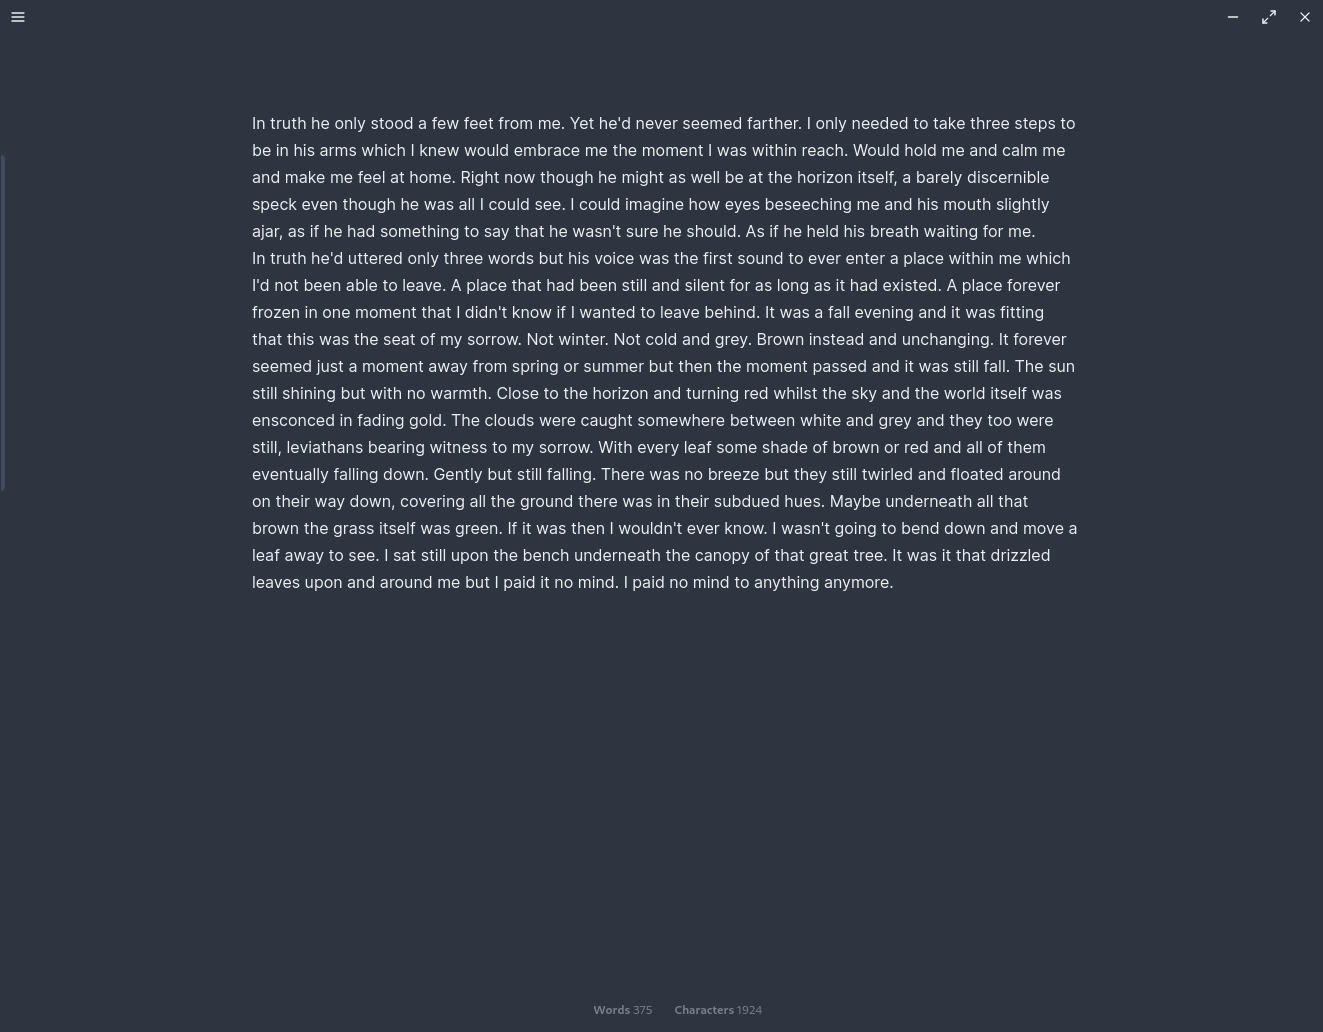
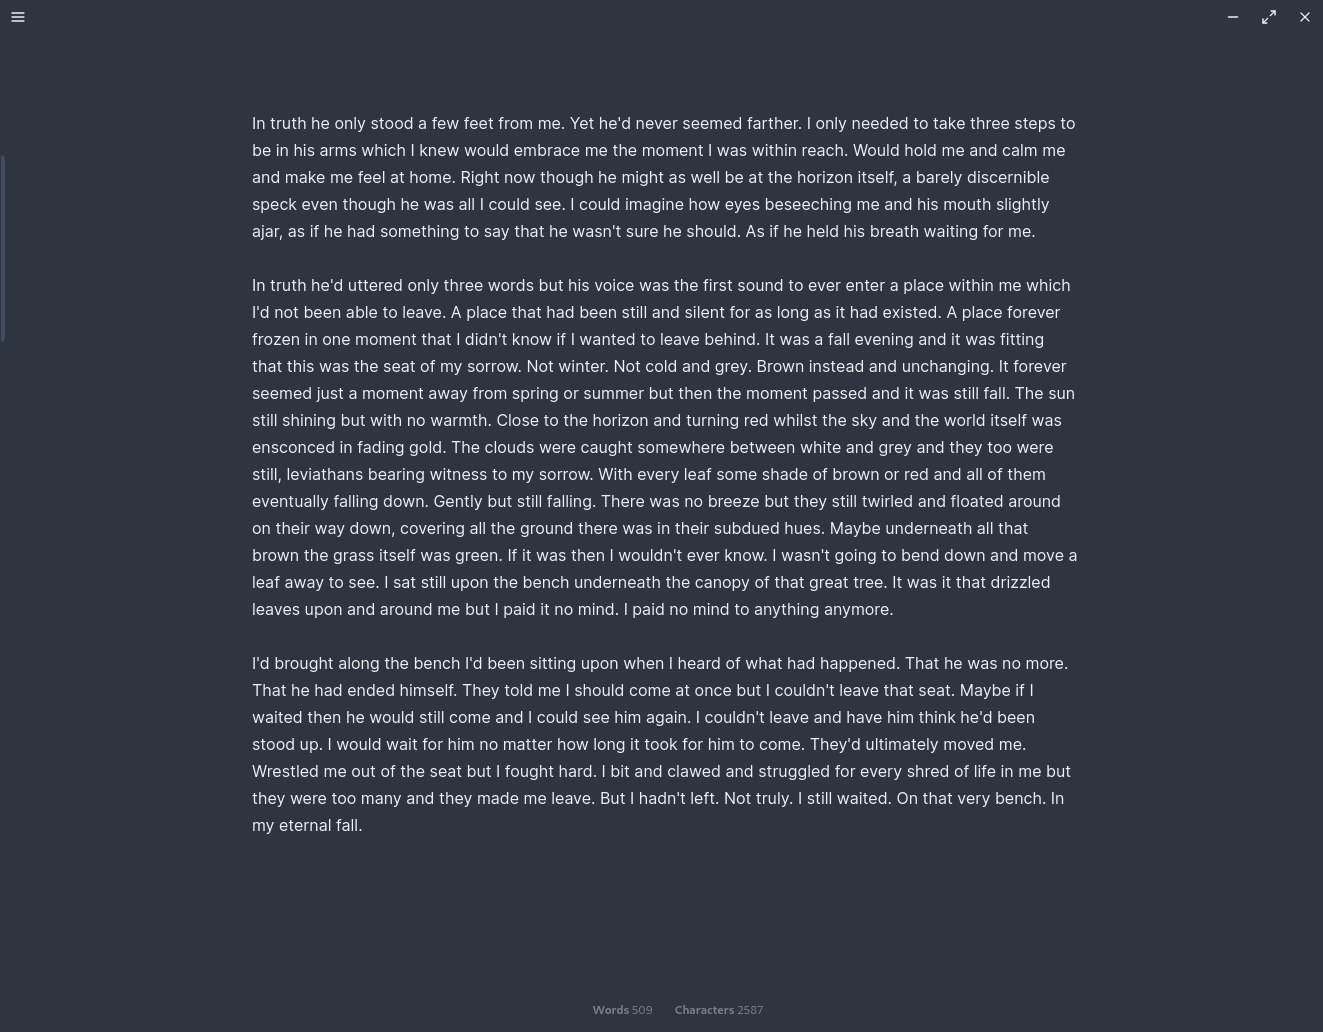
Update readme and preview image

Changed region(s): [[0.1859, 0.2481, 0.8057, 0.8062]]

diff --git a/README.md b/README.md
@@ -18,7 +18,3 @@ https://listed.to/p/WAD0wCp1QS
 ## Preview
 
 ![Standard Notes Writer](preview.png)
-
-Word count:
-
-![Word Count in Standard Notes Writer](wordcount.png)
